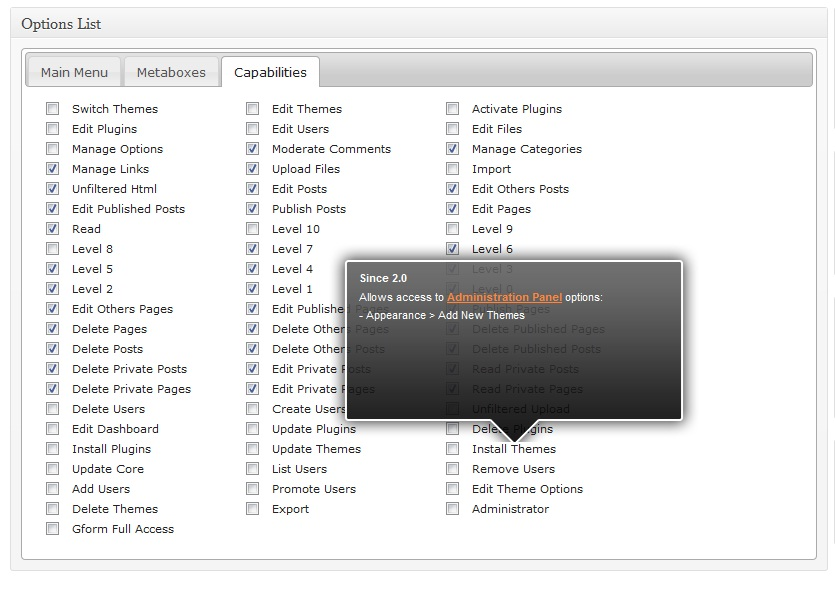
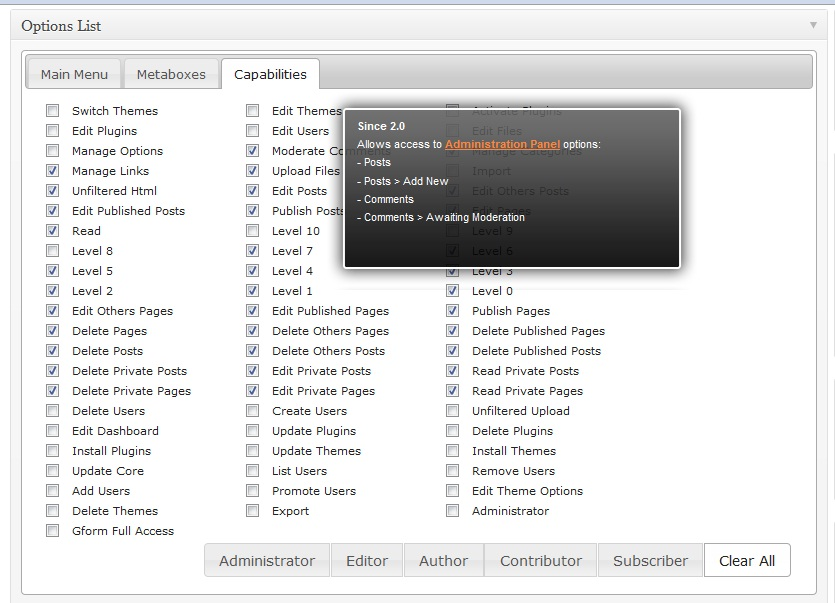
git-svn-id: https://plugins.svn.wordpress.org/advanced-access-manager/trunk@419576 b8457f37-d9ea-0310-8a92-e5e31aec5664

diff --git a/js/admin-options.js b/js/admin-options.js
@@ -117,10 +117,51 @@ jQuery(document).ready(function(){
     jQuery('#role').bind('change', function(){
         formChanged -= 1;
     });
-    
+
     window.onbeforeunload = goodbye;
     
 });
+
+var roleCapabilities = {
+    radio2 : ['moderate_comments', 'manage_categories', 'manage_links', 'upload_files',
+    'unfiltered_html', 'edit_posts', 'edit_others_posts', 'edit_published_posts',
+    'publish_posts', 'edit_pages', 'read', 'level_7', 'level_6', 'level_5', 'level_4',
+    'level_3', 'level_2', 'level_1', 'level_0', 'edit_others_pages', 'edit_published_pages',
+    'publish_pages', 'delete_pages', 'delete_others_pages', 'delete_published_pages',
+    'delete_posts', 'delete_others_posts', 'delete_published_posts', 'delete_private_posts',
+    'read_private_posts', 'delete_private_pages', 'edit_private_pages', 'read_private_pages'],
+    radio3 : ['upload_files', 'edit_posts', 'edit_others_posts', 'edit_published_posts', 
+    'publish_posts', 'read', 'level_2', 'level_1', 'level_0', 'delete_posts', 'delete_published_posts',],
+    radio4 : ['edit_posts', 'read', 'level_1', 'level_0', 'delete_posts'],
+    radio5 : ['read', 'level_0']
+}
+
+function changeCapabilities(type){
+    
+    switch(type){
+        case 'radio1': //administrator
+            jQuery('.capability-item input').attr('checked', true);
+            break;
+        
+        case 'radio2': //editor
+        case 'radio3': //author
+        case 'radio4': //contributor
+        case 'radio5': //subscriber
+            jQuery('.capability-item input').attr('checked', false);
+
+            for (var c in roleCapabilities[type]){
+                jQuery('.capability-item input[name*="['+roleCapabilities[type][c]+']"]').attr('checked', true);
+            }
+            break;
+        
+        case 'radio6':
+            jQuery('.capability-item input').attr('checked', false);
+            break;
+            
+        default:
+            break;
+    }
+}
 
 function changeRole(){
     var currentRoleID = jQuery('#role').val();
@@ -167,7 +208,8 @@ function restoreDefault(){
                     if (data.status == 'success'){
                         getRoleOptionList(role);
                     }else{
-                    //TODO - Implement error notice
+                        //TODO - Implement error
+                        alert('Current Role can not be restored!');
                     }
                     jQuery( _this ).dialog( "close" );
                 },'json');
@@ -209,7 +251,8 @@ function grabInitiatedWM(){
     });
     showAjaxLoader('#metabox-list');
     var params = {
-        'action' : 'render_metaboxList',
+        'action' : 'mvbam',
+        'sub_action' : 'render_metabox_list',
         '_ajax_nonce': wpaccessLocal.nonce,
         'role' : jQuery('#current_role').val()
     };
@@ -362,7 +405,6 @@ function configureElements(){
             jQuery('.initiate-url-empty').show();
         }
     });
-
-    
     jQuery('#tabs').css('visibility', 'visible');
+    jQuery('#radio-list').buttonset();
 }

diff --git a/templates/admin_options.html b/templates/admin_options.html
@@ -128,9 +128,20 @@
                             <div class="capability-item">
                                 <input type="checkbox" name="wpaccess[###role###][advance][###title###]" value="1" ###checked### />
                                        &nbsp;&nbsp;<label title="###description###">###cap_name###</label>
-
                             </div>
                             <!-- ###CAPABILITY_ITEM### end-->
+                            <br class="clear" />
+                            
+                            <div class="default-roles">
+                                <div id="radio-list">
+                                    <input type="radio" id="radio1" name="radio" onclick="changeCapabilities('radio1');" /><label for="radio1" title="Give Administrator's List of Capabilities">Administrator</label>
+                                    <input type="radio" id="radio2" name="radio" onclick="changeCapabilities('radio2');" /><label for="radio2" title="Give Editor's List of Capabilities">Editor</label>
+                                    <input type="radio" id="radio3" name="radio" onclick="changeCapabilities('radio3');" /><label for="radio3" title="Give Author's List of Capabilities">Author</label>
+                                    <input type="radio" id="radio4" name="radio" onclick="changeCapabilities('radio4');" /><label for="radio4" title="Give Contributor's List of Capabilities">Contributor</label>
+                                    <input type="radio" id="radio5" name="radio" onclick="changeCapabilities('radio5');" /><label for="radio5" title="Give Subscriber's List of Capabilities">Subscriber</label>
+                                    <input type="radio" id="radio6" name="radio" onclick="changeCapabilities('radio6');" /><label for="radio6" title="Clear all Capabilities">Clear All</label>
+                                </div>
+                            </div>
                             <br class="clear" />
                             <!-- ###CAPABILITY_LIST### end-->
                         </div>

diff --git a/css/wpaccess_style.css b/css/wpaccess_style.css
@@ -187,3 +187,7 @@
 #metabox-wpaccess-general p{
     text-align: justify;
 }
+
+.default-roles{
+    float:right;
+}

diff --git a/module/class-module_filtermenu.php b/module/class-module_filtermenu.php
@@ -33,12 +33,38 @@ class module_filterMenu extends module_User {
         global $menu, $submenu;
 
         $userRoles = $this->getCurrentUserRole();
+        if (is_array($userRoles)) {
+            foreach ($userRoles as $role) {
+                if (is_array($this->cParams[$role]['menu'])) {
+                    foreach ($this->cParams[$role]['menu'] as $main => $data) {
+                        if ($data['whole'] == 1) {
+                            $this->unsetMainMenuItem($main);
+                        } elseif (is_array($data['sub'])) {
+                            foreach ($data['sub'] as $sub => $dummy) {
+                                $this->unsetSubMenuItem($main, $sub);
+                            }
+                        }
+                    }
+                }
+            }
+        } else {
+            wp_die('You are not authorized to view this page');
+        }
+    }
 
+    function _manage() {
+        global $menu, $submenu;
+
+        $userRoles = $this->getCurrentUserRole();
+        debug($this->cParams);
+        debug($menu);
+        debug($submenu);
         if (is_array($userRoles)) {
             foreach ($userRoles as $role) {
                 if (is_array($this->cParams[$role])) {
                     foreach ($menu as $key => $menuItem) {
                         if (is_array($this->cParams[$role]['menu'][$menuItem[2]])) {
+                            echo $menuItem[2] . '<br/>';
                             if ($this->cParams[$role]['menu'][$menuItem[2]]['whole']) {
                                 $this->unsetMainMenuItem($menuItem[2]);
                             } elseif (is_array($this->cParams[$role]['menu'][$menuItem[2]]['sub'])) {
@@ -68,11 +94,13 @@ class module_filterMenu extends module_User {
                 if ($role == 'administrator') {
                     return TRUE;
                 }
+ 
                 if (is_array($this->cParams[$role]['menu'])) {
                     foreach ($this->cParams[$role]['menu'] as $menu => $sub) {
-                        if ($this->compareMenus($requestedMenu, $menu)) {
+                        if (($sub['whole']) == 1 && ($this->compareMenus($requestedMenu, $menu))) {
                             return FALSE;
                         }
+
                         if (is_array($sub['sub'])) {
                             foreach ($sub['sub'] as $subMenu => $dummy) {
                                 if ($this->compareMenus($requestedMenu, $subMenu)) {
@@ -154,16 +182,24 @@ class module_filterMenu extends module_User {
         }
     }
 
-    function unsetSubMenuItem($menuItem, $submenuItem) {
+    function unsetSubMenuItem($dummy, $submenuItem) {
         global $submenu;
 
-        if (is_array($submenu[$menuItem])) {
-            foreach ($submenu[$menuItem] as $key => $item) {
-                if ($item[2] == $submenuItem) {
-                    unset($submenu[$menuItem][$key]);
+        $result = FALSE; //not deleted
+        if (is_array($submenu)) {
+            foreach ($submenu as $main => $subs) {
+                if (is_array($subs)) {
+                    foreach ($subs as $key => $item) {
+                        if ($item[2] == $submenuItem) {
+                            unset($submenu[$main][$key]);
+                            return TRUE;
+                        }
+                    }
                 }
             }
         }
+
+        return $result;
     }
 
 }

diff --git a/mvb_wp_access.php b/mvb_wp_access.php
@@ -1,9 +1,9 @@
 <?php
 
 /*
-  Plugin Name: Advanced WP Access Manager
+  Plugin Name: Advanced Access Manager
   Description: Manage user roles and capabilities
-  Version: 0.9.0
+  Version: 0.9.5
   Author: Vasyl Martyniuk
   Author URI: http://www.whimba.com
  */
@@ -74,7 +74,6 @@ class mvb_WPAccess extends mvb_corePlugin {
             add_action('admin_action_initiateURL', array($this, 'initiateURL'));
             //ajax
             add_action('wp_ajax_mvbam', array($this, 'ajax'));
-            add_action('wp_ajax_render_metaboxList', array($this, 'render_metaboxList'));
 
             /*
              * Initialize Metabox filter hook
@@ -120,6 +119,14 @@ class mvb_WPAccess extends mvb_corePlugin {
             case 'delete_role':
                 $this->delete_role();
                 break;
+
+            case 'render_metabox_list':
+                $this->render_metabox_list();
+                break;
+
+            default:
+                die();
+                break;
         }
     }
 
@@ -132,25 +139,25 @@ class mvb_WPAccess extends mvb_corePlugin {
 
     protected function restore_role($role) {
         global $wpdb;
-        
+
         //get current roles settings
         $or_roles = get_option(WPACCESS_PREFIX . 'original_user_roles');
         $roles = get_option($wpdb->prefix . 'user_roles');
         $options = get_option(WPACCESS_PREFIX . 'options');
-        
-        if (isset($roles[$role]) && ($role != 'administrator')) {
+
+        if (isset($or_roles[$role]) && isset($roles[$role]) && ($role != 'administrator')) {
             $roles[$role] = $or_roles[$role];
             //save current setting to DB
             update_option($wpdb->prefix . 'user_roles', $roles);
             //unset all option with metaboxes and menu
             unset($options[$role]);
             update_option(WPACCESS_PREFIX . 'options', $options);
-            
+
             $result = array('status' => 'success');
-        }else{
+        } else {
             $result = array('status' => 'error');
         }
-        
+
         die(json_encode($result));
     }
 
@@ -219,9 +226,10 @@ class mvb_WPAccess extends mvb_corePlugin {
     function deactivate() {
 
         $roles = get_option(WPACCESS_PREFIX . 'original_user_roles');
-		if (is_array($roles) && count($roles)){
-			update_option($wpdb->prefix . 'user_roles', $roles);
-		}
+
+        if (is_array($roles) && count($roles)) {
+            update_option($wpdb->prefix . 'user_roles', $roles);
+        }
         delete_option(WPACCESS_PREFIX . 'original_user_roles');
         delete_option(WPACCESS_PREFIX . 'options');
     }
@@ -365,7 +373,7 @@ class mvb_WPAccess extends mvb_corePlugin {
      * @return string HTML string with result
      */
 
-    function render_metaboxList() {
+    function render_metabox_list() {
 
         check_ajax_referer(WPACCESS_PREFIX . 'ajax');
 
@@ -422,6 +430,7 @@ class mvb_WPAccess extends mvb_corePlugin {
         $uri = $_SERVER['REQUEST_URI'];
 
         $m = new module_filterMenu();
+
         if (!$m->checkAccess($uri)) {
             wp_die('<p>' . __('You do not have sufficient permissions to perform this action') . '</p>');
         }

diff --git a/module/class-module_optionmanager.php b/module/class-module_optionmanager.php
@@ -227,16 +227,26 @@ class module_optionManager extends mvb_corePlugin {
         $sublistTemplate = $this->templObj->retrieveSub('MAIN_MENU_SUBLIST', $itemTemplate);
         $subitemTemplate = $this->templObj->retrieveSub('MAIN_MENU_SUBITEM', $sublistTemplate);
         $list = '';
+
         if (is_array($menu)) {
             foreach ($menu as $menuItem) {
-                if (!$menuItem[0]) {
+                if (!$menuItem[0]) { //seperator
                     continue;
-                } //seperator
+                }
                 //render submenu
                 $subList = '';
                 if (isset($submenu[$menuItem[2]]) && is_array($submenu[$menuItem[2]])) {
                     foreach ($submenu[$menuItem[2]] as $submenuItem) {
                         $checked = $this->checkChecked('submenu', array($menuItem[2], $submenuItem[2]));
+                        /*
+                        if ((strpos($submenuItem[2], '.php') === FALSE)) { //create a page url
+                            $value = $menuItem[2] . (preg_match('/\?(.*){1,}$/is', $menuItem[2]) ? '&' : '?' );
+                            $value .= 'page=' . $submenuItem[2];
+                        } else {
+                            $value = $submenuItem[2];
+                        }
+                         * */
+                        
                         $markers = array(
                             '###submenu_name###' => preg_replace('/<span[^>]*?>.*?<\/span[^>]*?>/si', '', $submenuItem[0]),
                             '###value###' => $submenuItem[2],

diff --git a/mvb_functions.php b/mvb_functions.php
@@ -17,13 +17,13 @@
   along with this program.  If not, see <http://www.gnu.org/licenses/>.
  
  */
-/*
+
 function debug($what) {
     echo '<pre>';
     print_r($what);
     echo '</pre>';
 }
- * */
+
 
 function init_wpaccess() {
     static $mvb_wpAccess;
